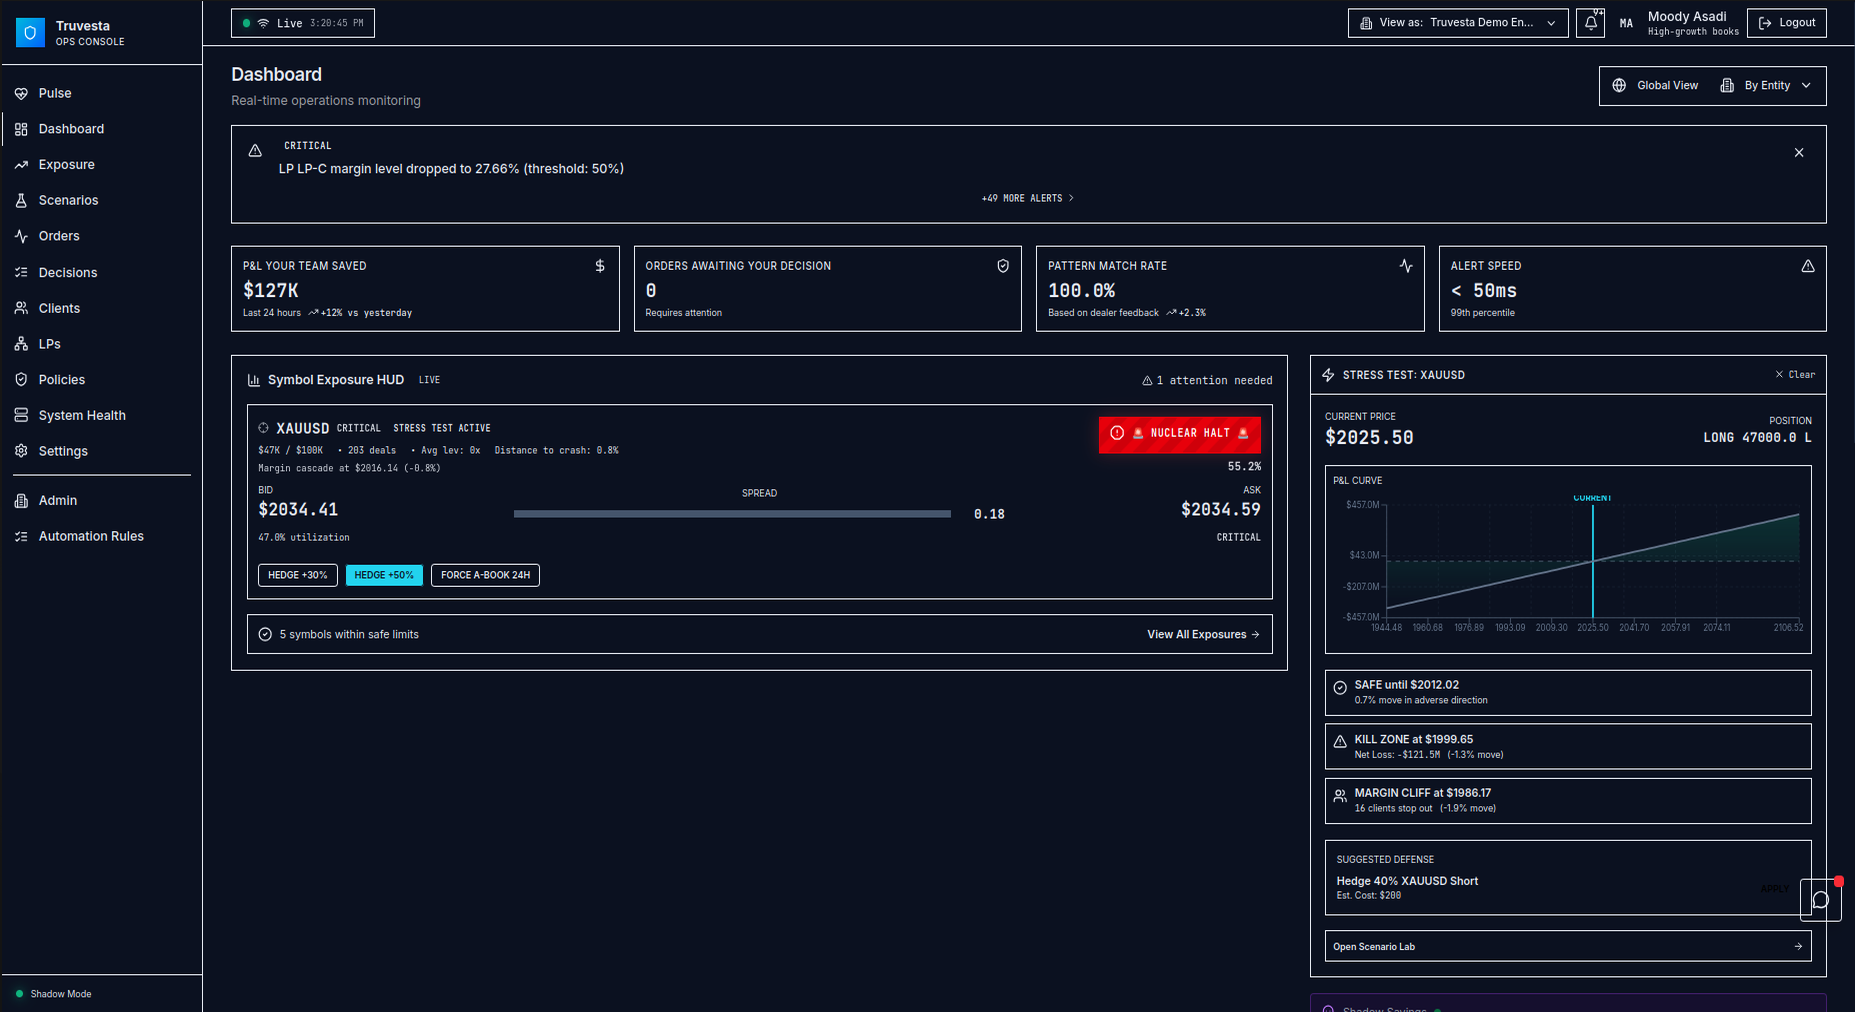
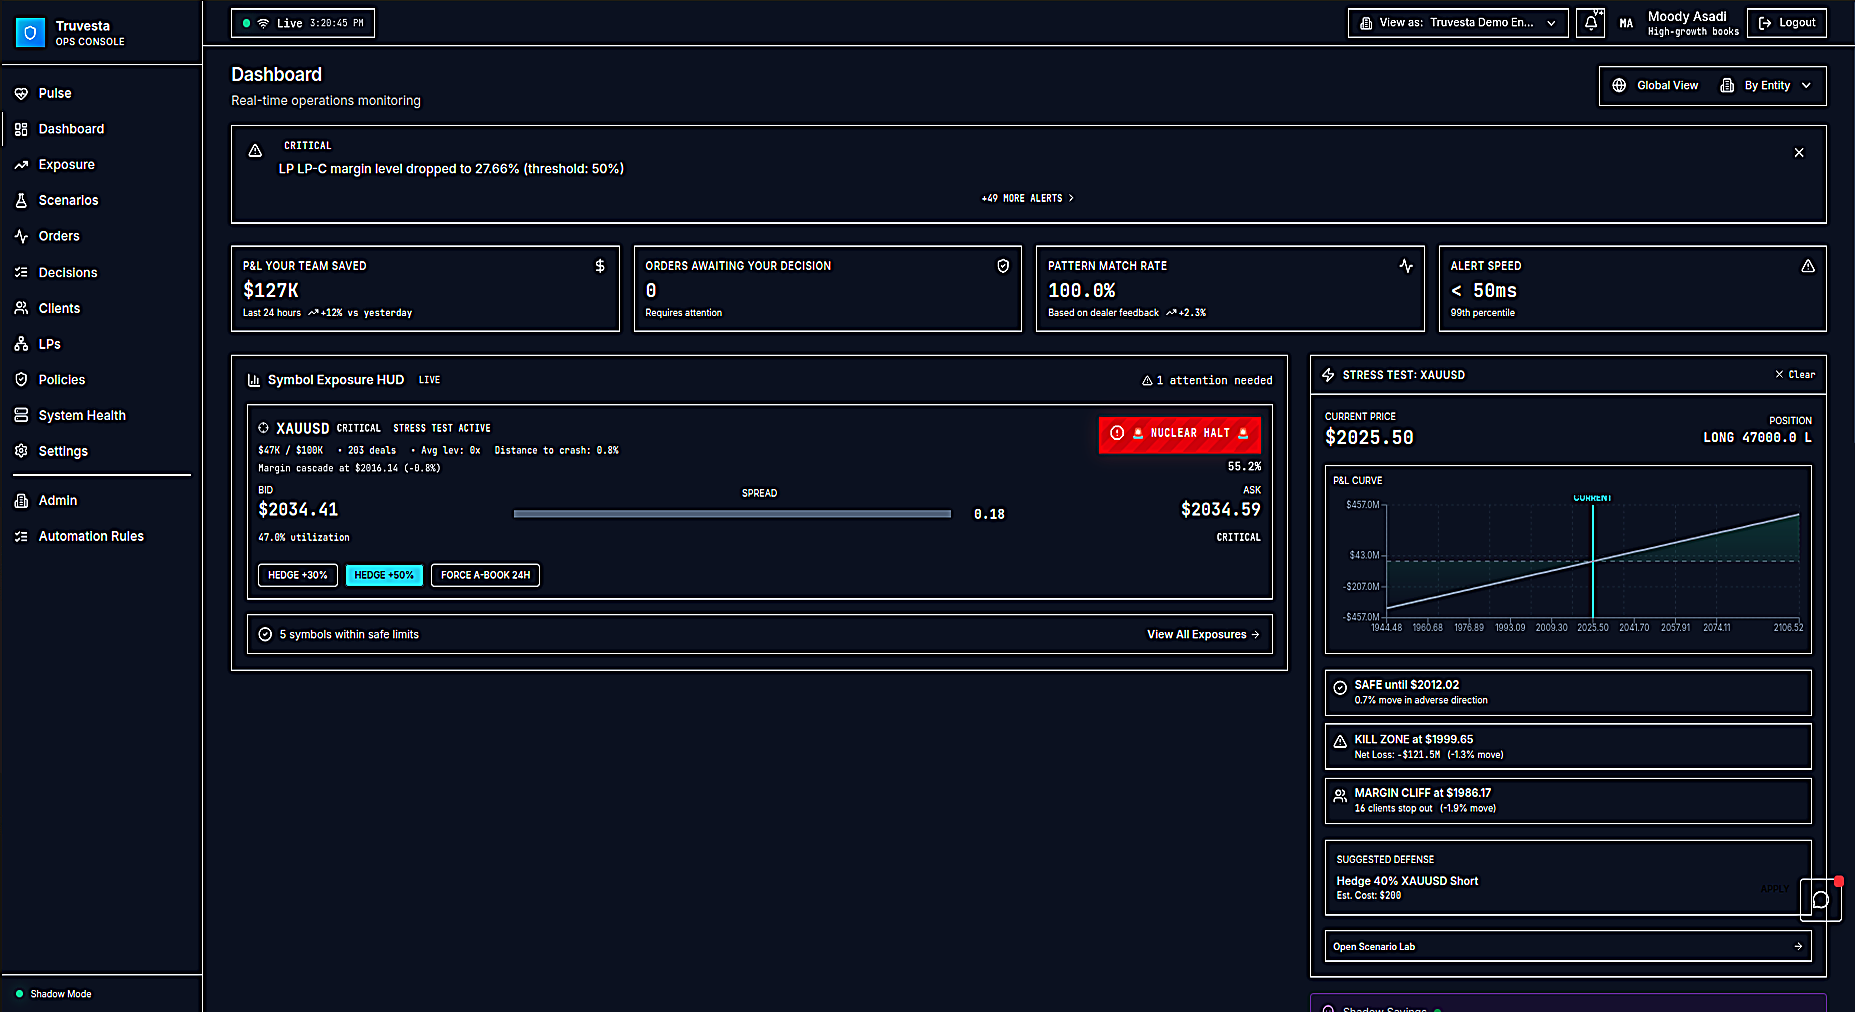
fix(products): sharpen Truvesta screenshot + bump image quality to 95

diff --git a/src/components/product-screenshot.tsx b/src/components/product-screenshot.tsx
@@ -37,9 +37,9 @@ export function ProductScreenshot({
             fill
             className="object-cover object-center opacity-100 contrast-110 saturate-110 group-hover:contrast-125 group-hover:saturate-125 group-hover:scale-[1.02] transition duration-300"
             onError={() => setOk(false)}
-            sizes={featured ? "(max-width: 640px) 90vw, 800px" : "(max-width: 640px) 90vw, 400px"}
+            sizes={featured ? "(max-width: 640px) 90vw, 1200px" : "(max-width: 640px) 90vw, 600px"}
             priority={featured}
-            quality={85}
+            quality={95}
             unoptimized={process.env.NODE_ENV === "development"}
           />
         </>
